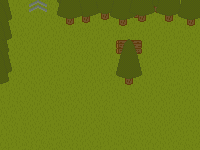
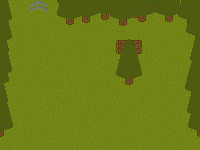
renfest front, circle adjust

Changed region(s): [[0.9, 0.1067, 1.0, 0.9333], [0.0, 0.56, 0.09, 0.9067]]

diff --git a/Gamestates.js b/Gamestates.js
@@ -21,7 +21,7 @@ function LoadingGamestate(){
 			//setGamestate(gamestates.intro);
 			
 			//for testing purposes, you can skip to a gamestate by putting it here
-			setGamestate(gamestates.room2);
+			setGamestate(gamestates.renfestEntrance);
 			playMusic(music.leander);
 		}
 	}
@@ -605,12 +605,14 @@ function RenfestEntrance(){
 	this.walls = [
 		new Box(0,0,44,600), //left wall
 		new Box(228,0,572,80), // top wall
-		new Box(0,504,360,10), //left fence
-		new Box(440,504,360,10), //right fence
+		new Box(0,504,360,50), //left fence
+		new Box(440,504,360,50), //right fence
 		new Box(464,156,104,152), //tree
+		new Box(740,0,50,600), //Right Wall
 		];
 	
 	this.upDoor = new Box(0,-20,200,20);
+	this.downDoor = new Box(0,600,800,20);
 	
 	this.update = function(time){
 		
@@ -646,6 +648,10 @@ function RenfestEntrance(){
 		if(collide(player,this.upDoor)){
 			player.y = 540;
 			setGamestate(gamestates.forest);
+		}
+		else if(collide(player,this.downDoor)){
+			player.y = 10;
+			setGamestate(gamestates.renfestFront);
 		}
 
 	};
@@ -981,6 +987,82 @@ function EnterpriseEntrance(){
 }
 
 
+
+function RenfestFront(){
+	this.name = "Renfest Front";
+	this.enemies = [];
+	this.items = [];
+	this.walls = [];
+	this.edges = new Circle(400, 300, 280);
+	
+	this.update = function(time){
+		
+		player.update(time);
+		
+		for(var i = 0; i < this.enemies.length; i ++){
+			this.enemies[i].update(time);
+		}
+		
+		for(var i = 0; i < this.walls.length; i++){
+			
+			for(var e = 0; e < this.enemies.length; e++){
+				if(collide(this.enemies[e],this.walls[i]))
+					adjust(this.enemies[e],this.walls[i]);
+			}
+			
+			if(collide(player,this.walls[i]))
+				adjust(player,this.walls[i]);
+		}
+		
+		for(var i = 0; i < this.items.length; i++){
+			if(collide(player, this.items[i]) ){
+				var del = this.items[i].onCollide();
+				if(del){
+					this.items.splice(i,1);
+					i--;
+				}
+			}
+		}
+		
+		cleanUpBodies();
+		
+		//doors
+	};
+	
+	this.draw = function(){
+		ctx.drawImage(images.renfestFront ,0,0,200,150,0,0,800,600);
+		var drw = this.enemies.slice();
+		drw.push(player);
+		for(var i = 0; i < effects.length; i++){
+			drw.push(effects[i]);
+		}
+		sortEnemies(drw);
+		
+		for(var i = 0; i < this.items.length; i++){
+			this.items[i].draw();
+		}
+		
+		for(var i = 0; i < drw.length; i++){
+			drw[i].draw();
+		}
+		
+		for(var i = 0; i < this.walls.length; i++){
+			this.walls[i].draw();
+		}
+		
+		this.edges.draw();
+		
+		for(var i = 0; i < this.enemies.length; i++){
+			drawEnemyHealth(this.enemies[i]);
+		}
+		
+		player.drawHUD();
+		drawTitle();
+	};
+}
+
+
+
 /*
 ████████╗███████╗███╗   ███╗██████╗ ██╗      █████╗ ████████╗███████╗
 ╚══██╔══╝██╔════╝████╗ ████║██╔══██╗██║     ██╔══██╗╚══██╔══╝██╔════╝
@@ -1106,6 +1188,7 @@ var gamestates = {
 	ranch: new Ranch(),
 	ponyville: new Ponyville(),
 	enterpriseEntrance: new EnterpriseEntrance(),
+	renfestFront: new RenfestFront()
 };
 
 var timeInGamestate = 0;

diff --git a/SoundsAndImages.js b/SoundsAndImages.js
@@ -18,6 +18,7 @@ var images = {
 		ponyvilleLayer2: new Image(),
 		shipEntrance: new Image(),
 		shipEntranceLayer2: new Image(),
+		renfestFront: new Image(),
 	};
 	
 	var sounds = {
@@ -80,6 +81,7 @@ function loadSoundsAndImages(){
 	images.ponyvilleLayer2.onload = function(){ gamestate.loaded++; };
 	images.shipEntrance.onload = function(){ gamestate.loaded++; };
 	images.shipEntranceLayer2.onload = function(){ gamestate.loaded++; };
+	images.renfestFront.onload = function(){ gamestate.loaded++; };
 	images.frame.src = "Images/Frame.png";
 	images.life.src = "Images/Life.png";
 	images.weapons.src = "Images/Weapons.png";
@@ -99,6 +101,7 @@ function loadSoundsAndImages(){
 	images.ponyvilleLayer2.src = "Images/PonyvilleLayer2.png";
 	images.shipEntrance.src = "Images/ShipEntrance.png";
 	images.shipEntranceLayer2.src = "Images/ShipEntranceLayer2.png";
+	images.renfestFront.src = "Images/RenfestFront.png";
 	music.intro = new Howl({
 		onload: function(){ gamestate.loaded++; },
 		urls: ['Sounds/SadSong.wav'],

diff --git a/RandomFunctions.js b/RandomFunctions.js
@@ -60,6 +60,17 @@ function adjust(moveable,stationary){
 		moveable.y = stationary.y + stationary.h;
 }
 
+function circleAdjust(moveable, circle){
+	var box = new Box(circle.x, circle.y, 0,0);
+	var dist = findDistanceFromCenters(moveable,box);
+	if(dist > circle.r){
+		dist -= circle.r;
+		var ang = Math.atan2(circle.y - (moveable.y + (moveable.h * 0.5)), circle.x - (moveable.x + (moveable.w * 0.5)) );
+		moveable.x += Math.cos(ang) * dist;
+		moveable.y += Math.sin(ang) * dist;
+	}
+}
+
 function cleanUpBodies(){
 	for(var i = 0; i < gamestate.enemies.length; i++){
 		if(gamestate.enemies[i].health <= 0){

diff --git a/Objects.js b/Objects.js
@@ -167,6 +167,22 @@ function Effect(im, cx, cy, cw, ch, a, b, c, d, ang){
 
 
 
+function Circle(a,b,c){
+	this.x = a;
+	this.y = b;
+	this.r = c;
+	
+	this.update = function(time){
+	};
+	
+	this.draw = function(){
+		ctx.beginPath();
+		ctx.arc(this.x, this.y, this.r, 0, Math.PI * 2);
+	};
+}
+
+
+
 function Key(kc){
 	this.down = false;
 	this.pressed = false;
